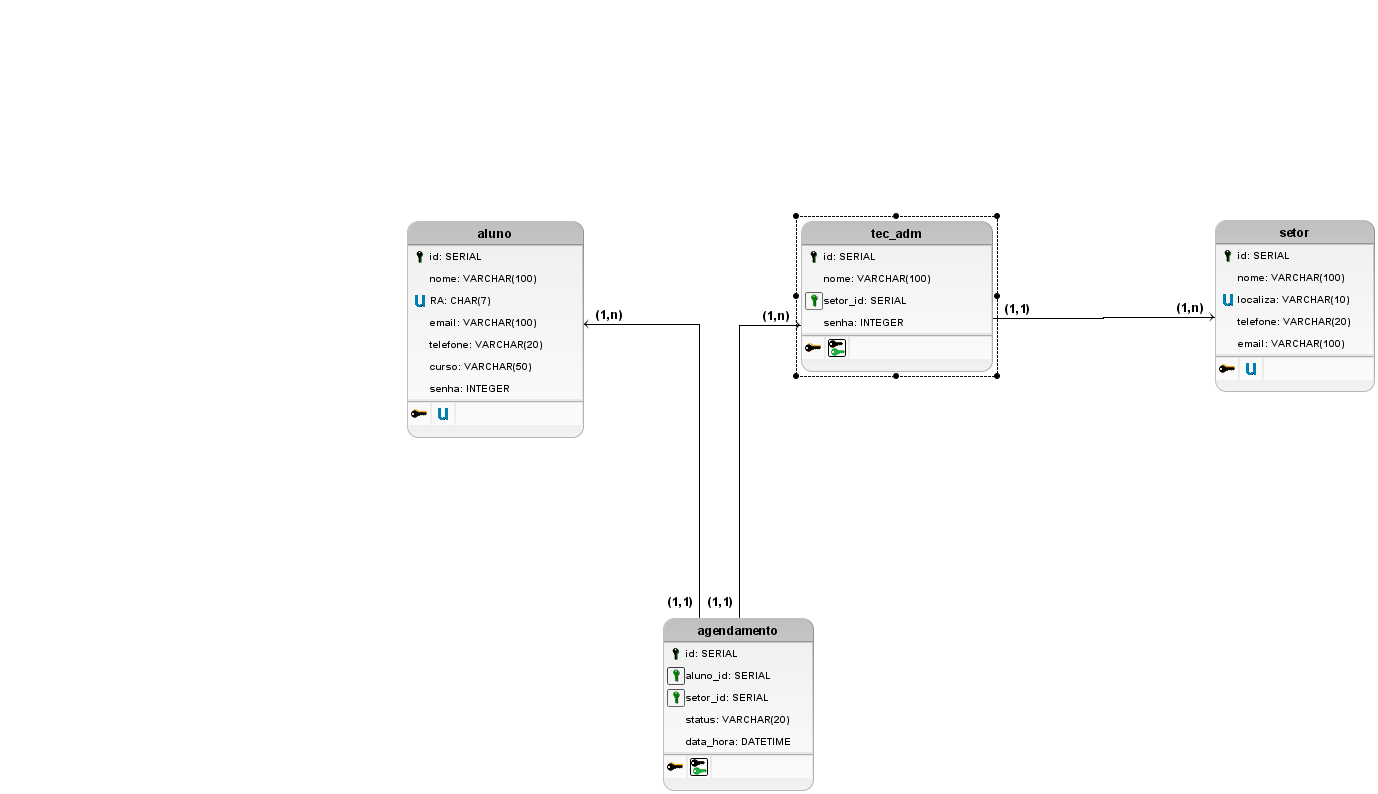
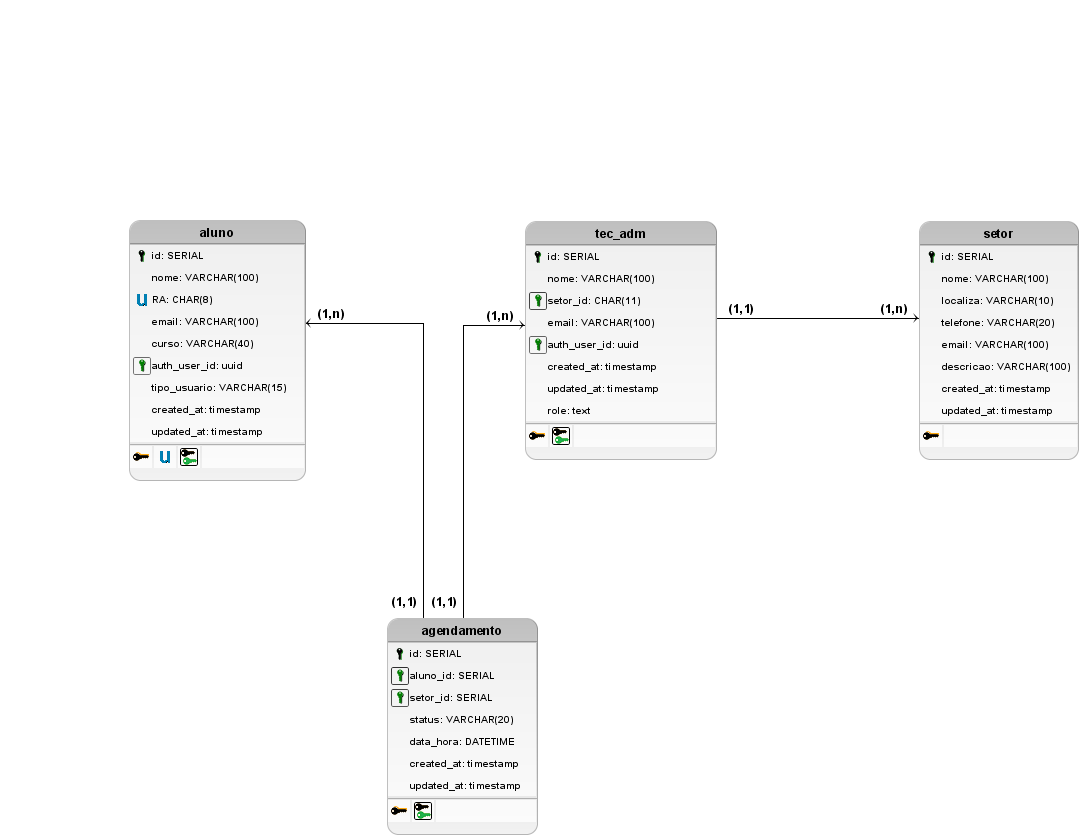
Ajuste nos modelos relacionais
Ajuste do modelo relacional do banco de dados;
Pequeno ajuste na lógica para coluna curso ser funcional;

diff --git a/agendamento/src/screens/PerfilScreen/index.js b/agendamento/src/screens/PerfilScreen/index.js
@@ -58,7 +58,7 @@ const PerfilScreen = () => {
                         name: aluno.nome,
                         ra: `a${aluno.RA}`, // Adiciona 'a' na frente do número
                         email: aluno.email,
-                        curso: aluno.curso,
+                        curso: aluno.curso || 'Engenharia de Software',
                     });
                 }
             }

diff --git a/agendamento/src/screens/SignUpScreen/index.js b/agendamento/src/screens/SignUpScreen/index.js
@@ -60,6 +60,7 @@ const SignUpScreen = ({ navigation }) => {
             ra_number: raNumber, // Guarda só números para o banco
             name: name,
             email_institucional: email,
+            curso: 'Engenharia de Software', // Curso padrão fixo
           },
         },
       });
